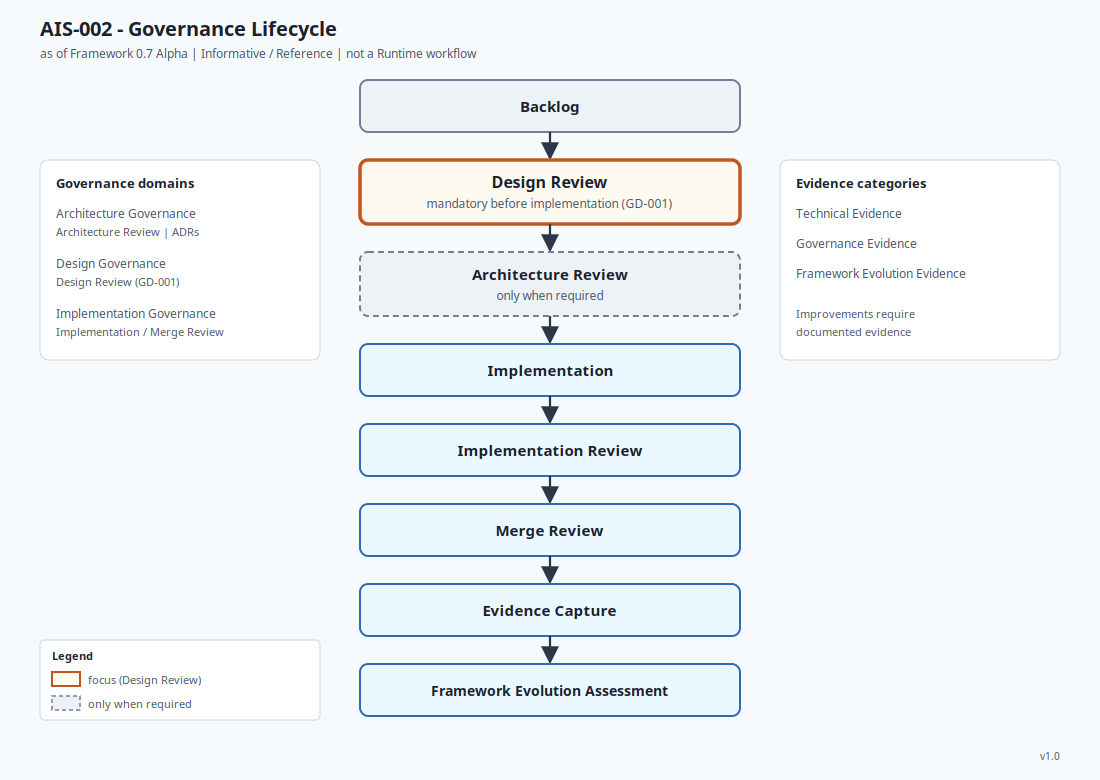
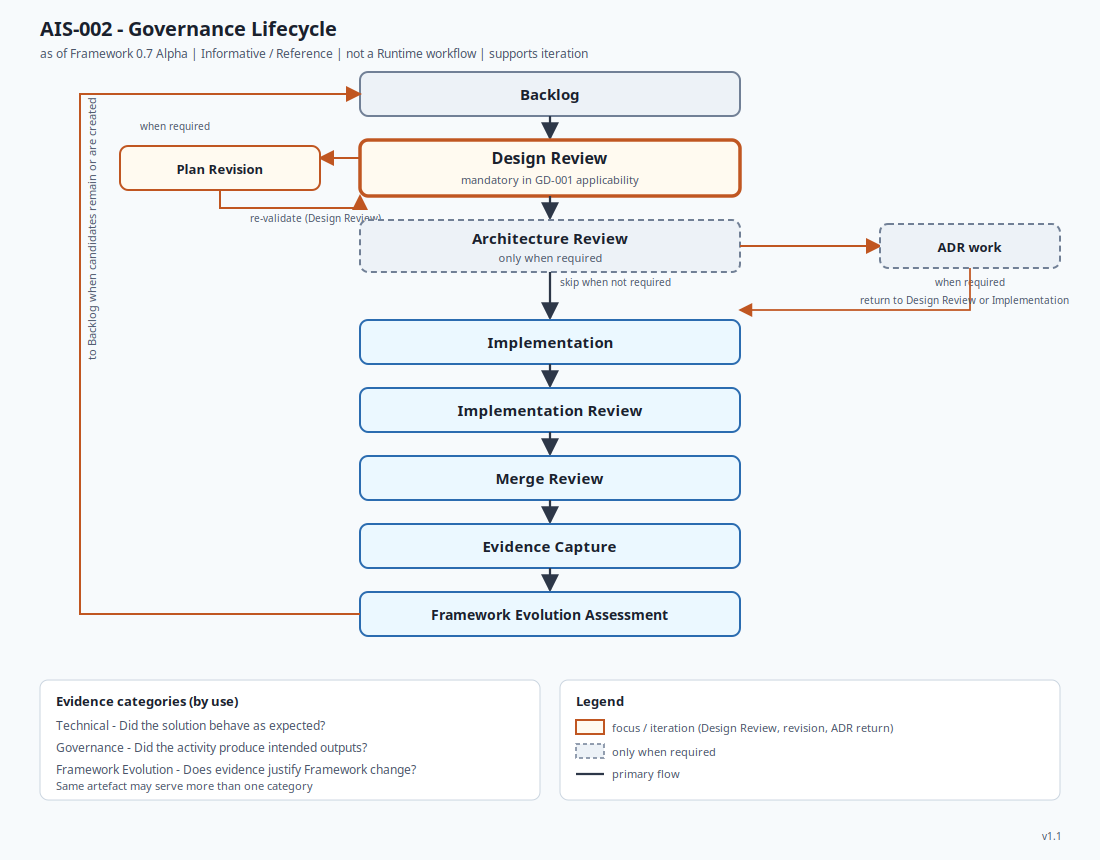
docs(governance): address PR #6 governance review findings
Complete lifecycle purpose/owner/outputs and iteration transitions,
clarify use-based evidence categories, add lightweight GD status model,
and limit GD-001 applicability to Framework evolution and official RIs.

diff --git a/docs/governance/GOVERNANCE.md b/docs/governance/GOVERNANCE.md
@@ -53,14 +53,20 @@ Accepted ADR authority.
 ## Governance lifecycle
 
 *Informative teaching view of Framework stewardship stages — not a Runtime
-workflow and not a mandatory waterfall for consuming-project changes.*
+workflow and not a mandatory waterfall for ordinary consuming-project changes.
+GD-001 applicability is stated in
+[GD-001](./GOVERNANCE_DECISIONS/GD-001-Design-Review.md).*
 
 ```text
 Backlog
   ↓
-Design Review
+Design Review ──→ Plan Revision (when required) ──→ Design Review
   ↓
-Architecture Review (only when required)
+  ├──→ Architecture Review (when required)
+  │         ↓
+  │    ADR work (when required)
+  │         ↓
+  │    return to Design Review or Implementation
   ↓
 Implementation
   ↓
@@ -71,65 +77,98 @@ Merge Review
 Evidence Capture
   ↓
 Framework Evolution Assessment
+  ↓
+Backlog (when evolution candidates remain or are created)
 ```
 
-![AIS-002 Governance Lifecycle: Backlog → Design Review → Architecture Review (only when required) → Implementation → Implementation Review → Merge Review → Evidence Capture → Framework Evolution Assessment. Informative governance view; not a Runtime workflow.](../illustrations/png/AIS-002-governance-lifecycle.png)
+![AIS-002 Governance Lifecycle: iterative stewardship flow including Design Review, plan revision, conditional Architecture Review and ADR work, Implementation through Evidence Capture, and Framework Evolution Assessment returning to Backlog. Informative governance view; not a Runtime workflow.](../illustrations/png/AIS-002-governance-lifecycle.png)
 
-*Governance Lifecycle — Design Review is a mandatory stage before
-implementation. Architecture Review occurs only when required.
+*Governance Lifecycle — Design Review is mandatory before implementation within
+GD-001 applicability. Architecture Review and ADR work occur only when
+required. The lifecycle supports iteration.
 (AIS-002 · Informative / Reference ·
 [SVG](../illustrations/svg/AIS-002-governance-lifecycle.svg))*
 
-### Stage purposes
+### Stages — purpose, owner, expected outputs
 
-| Stage | Purpose |
-| ----- | ------- |
-| **Backlog** | Hold evidence-backed candidates and planned work items without treating the list as a roadmap or approval. See the [Evolution Backlog](../FRAMEWORK-EVOLUTION-BACKLOG.md) for Framework evolution candidates. |
-| **Design Review** | Validate planned implementation **before code is written**: scope, acceptance criteria, dependencies, design quality, and documentation completeness; decide whether implementation may begin or an Architecture Review is required ([GD-001](./GOVERNANCE_DECISIONS/GD-001-Design-Review.md)). |
-| **Architecture Review** | Challenge and decide architectural impact **only when Design Review (or equivalent authority) requires it**. May lead to ADR work. Does not routinely precede every implementation phase. |
-| **Implementation** | Produce the change under the confirmed scope and acceptance criteria, within Human Authority and Project Policy (or Framework stewardship rules for Framework-repo work). |
-| **Implementation Review** | Independently challenge the delivered change at proportionate depth (aligned with the Runtime **Review** capability for Framework-governed project changes — see [FA-011](../FA-011-REVIEW-GUIDE.md)). |
-| **Merge Review** | Confirm merge readiness: required outcomes present, residual risks explicit, and Human Authority satisfied for integration. |
-| **Evidence Capture** | Record Technical, Governance, and/or Framework Evolution Evidence produced by the work so learning is durable and citable. |
-| **Framework Evolution Assessment** | Decide whether captured evidence justifies a Framework improvement (Governance Decision, ADR, Asset change, or Evolution Backlog candidate). Improvements require documented evidence. |
+| Stage | Purpose | Owner | Expected outputs |
+| ----- | ------- | ----- | ---------------- |
+| **Backlog** | Hold evidence-backed candidates and planned work items without treating the list as a roadmap or approval. See the [Evolution Backlog](../FRAMEWORK-EVOLUTION-BACKLOG.md) for Framework evolution candidates. | Framework stewards (repository maintainers for Framework-repo work) | Prioritised or deferred candidates with origin evidence links; no implied approval |
+| **Design Review** | Validate planned implementation **before code is written**: scope, acceptance criteria, dependencies, design quality, and documentation completeness; decide whether implementation may begin, the plan must be revised, or an Architecture Review is required ([GD-001](./GOVERNANCE_DECISIONS/GD-001-Design-Review.md)). | Human Decision Owner for the phase (may be assisted; not agent-finalised for material work) | Confirmed scope; confirmed acceptance criteria; implementation recommendation (proceed / revise plan / stop/escalate); Architecture Review decision; documented rationale |
+| **Architecture Review** | Challenge and decide architectural impact **only when Design Review (or equivalent authority) requires it**. May lead to ADR work. Does not routinely precede every implementation phase. | Human accountable for architectural acceptance (Decision Owner for architecture on that change) | Architecture Review outcome (proceed under current architecture / ADR work required / stop/escalate); documented rationale |
+| **Implementation** | Produce the change under the confirmed scope and acceptance criteria, within Human Authority and Project Policy (or Framework stewardship rules for Framework-repo work). | Implementers under the Decision Owner’s authority | Delivered change artefacts within confirmed scope |
+| **Implementation Review** | Independently challenge the delivered change at proportionate depth (aligned with the Runtime **Review** capability for Framework-governed project changes — see [FA-011](../FA-011-REVIEW-GUIDE.md)). | Review authority under Project Policy / Human Authority (FA-011 for Runtime-bound work) | Review Outcome (`pass` / `fail` / `conditional`) or equivalent recorded challenge result |
+| **Merge Review** | Confirm merge readiness: required outcomes present, residual risks explicit, and Human Authority satisfied for integration. | Merge authority (Decision Owner or Policy-designated merge approver) | Merge readiness decision (merge / withhold); residual-risk record if material |
+| **Evidence Capture** | Record Technical, Governance, and/or Framework Evolution Evidence produced by the work so learning is durable and citable. | Change participants with steward oversight | Citable evidence records classified by **use** (see Evidence categories) |
+| **Framework Evolution Assessment** | Decide whether captured evidence justifies a Framework improvement (Governance Decision, ADR, Asset change, or Evolution Backlog candidate). Improvements require documented evidence. | Framework stewards | Evolution disposition (no Framework change / backlog candidate / GD or ADR/Asset change path); linked evidence |
+
+### Lifecycle transitions
+
+The lifecycle supports iteration. Material transitions:
+
+| From | To | When |
+| ---- | -- | ---- |
+| Backlog | Design Review | A bounded implementation phase is ready to plan/validate |
+| Design Review | **Plan Revision** | Implementation recommendation is revise plan |
+| Plan Revision | Design Review | Revised plan is ready for re-validation |
+| Design Review | **Architecture Review** | Architecture Review decision is required |
+| Design Review | Implementation | Proceed; Architecture Review not required |
+| Architecture Review | **ADR work** | Architectural decision/change is required |
+| Architecture Review | Implementation | Proceed under current architecture; no ADR work required |
+| Architecture Review | Design Review | Plan must be re-validated after architectural challenge |
+| ADR work (completion) | **Design Review** or **Implementation** | Return path chosen by the Decision Owner: re-validate design when scope/criteria changed; otherwise proceed to implementation under resolved architecture |
+| Implementation | Implementation Review | Delivery artefacts exist for challenge |
+| Implementation Review | Merge Review | Review Outcome allows merge consideration |
+| Merge Review | Evidence Capture | Merge decision recorded (merge or withhold still captures evidence) |
+| Evidence Capture | Framework Evolution Assessment | Evidence is durable enough to assess |
+| Framework Evolution Assessment | **Backlog** | Candidates remain, are created, or deferred for later evidence |
+
+Stop/Escalate may exit any stage when mandatory inputs conflict or material
+factors are unknown without valid deferral.
 
 ---
 
 ## Evidence categories
 
-Framework stewardship recognises three evidence categories.
+Framework stewardship recognises three evidence categories. Categories classify
+**how evidence is used**, not which document or file contains it.
+
+The **same artefact may contribute to more than one category** depending on the
+question being asked.
 
 ### Technical Evidence
 
-Evidence validating technical architecture and behaviour.
+Evidence answering:
 
-Examples:
+> Did the technical solution behave as expected?
 
-- automated tests
-- architecture validation
-- runtime behaviour observations
+Examples include runtime validation, architecture validation, and testing.
 
 ### Governance Evidence
 
-Evidence validating governance effectiveness.
+Evidence answering:
 
-Examples:
+> Did the governance activity produce the intended outputs?
+
+Examples include:
 
 - Design Reviews
 - Architecture Reviews
-- Implementation Reviews
 - Merge Reviews
-- Architecture Assessments
+
+(Implementation Reviews likewise count when used to show that the governance
+activity produced its intended Review Outcome.)
 
 ### Framework Evolution Evidence
 
-Evidence justifying improvements to the Framework itself.
+Evidence answering:
 
-Examples:
+> Does the collected evidence justify changing the Framework?
 
-- documented Reference Implementation lessons that expose a Framework gap
-- Design Review outcomes that identify governance improvements
-- Evolution Backlog candidates with linked origin evidence
+Examples include RI lessons used to justify a Framework gap, Design Review
+outputs used to justify a Governance Decision, and Evolution Backlog candidates
+with linked origin evidence — **when those artefacts are used for evolution
+justification**, not merely because a review occurred.
 
 **Framework improvements shall only be introduced when supported by documented
 evidence.** Preference and anecdote alone are insufficient.
@@ -164,12 +203,28 @@ here (or in ADRs / Assets as appropriate).
 
 Governance Decisions use the `GD-###` identity namespace.
 
-| ID | Title | Status |
-| -- | ----- | ------ |
-| [GD-001](./GOVERNANCE_DECISIONS/GD-001-Design-Review.md) | Mandatory Design Review Before Implementation | Accepted |
-
 See [FAIS](./FRAMEWORK-ASSET-IDENTIFICATION-STANDARD.md) for namespace
 boundaries among `ADR-###`, `FA-###`, and `GD-###`.
+
+### Status model
+
+*Lightweight lifecycle for Governance Decisions — intentionally minimal.*
+
+| Status | Meaning |
+| ------ | ------- |
+| **Draft** | Proposed; not ready for stewardship adoption |
+| **Under Review** | Submitted for governance review; not yet binding |
+| **Accepted** | Binding Governance Decision for its stated applicability |
+| **Superseded** | Replaced by a later Governance Decision; retained for history |
+| **Deprecated** | No longer to be applied for new work; retained for history |
+
+Do not invent additional GD workflow stages beyond this status model.
+
+### Decision index
+
+| ID | Title | Status |
+| -- | ----- | ------ |
+| [GD-001](./GOVERNANCE_DECISIONS/GD-001-Design-Review.md) | Mandatory Design Review Before Implementation | Under Review |
 
 ---
 

diff --git a/docs/governance/GOVERNANCE_DECISIONS/GD-001-Design-Review.md b/docs/governance/GOVERNANCE_DECISIONS/GD-001-Design-Review.md
@@ -4,7 +4,7 @@
 | --------- | ----- |
 | Governance Decision | GD-001 |
 | Title | Mandatory Design Review Before Implementation |
-| Status | Accepted |
+| Status | Under Review |
 | Classification | Governance Decision |
 | Product | AI Software Development Framework |
 | Related | [GOVERNANCE.md](../GOVERNANCE.md); [FA-002 (Method Spine)](../../FA-002-METHOD-SPINE.md); [FA-011 (Review Guide)](../../FA-011-REVIEW-GUIDE.md); [ADR-001](../../adr/ADR-001-FRAMEWORK-CORE-SEMANTICS.md)–[ADR-004](../../adr/ADR-004-AGENT-INTERACTION-MODEL.md); Whitepaper Ch. 10; Reference Implementation RI-001 (Fitness Challenge Platform) |
@@ -13,7 +13,29 @@
 
 ## Status
 
-Accepted
+Under Review
+
+Statuses follow the lightweight Governance Decision status model in
+[GOVERNANCE.md](../GOVERNANCE.md#status-model): Draft · Under Review ·
+Accepted · Superseded · Deprecated.
+
+---
+
+## Applicability
+
+GD-001 applies to:
+
+1. **AI Software Development Framework evolution** — implementation phases that
+   change Framework governance, Method, Assets, ADRs, or other Framework-repo
+   product content under stewardship.
+2. **Official Reference Implementations** — implementation phases in an
+   official RI (for example RI-001 Fitness Challenge Platform) conducted under
+   Framework governance for validation and evidence production.
+
+GD-001 does **not** make Design Review mandatory for all Framework consumers
+or for all software development. Ordinary consuming projects MAY adopt Design
+Review voluntarily under Project Policy; this Decision does not impose it on
+them.
 
 ---
 
@@ -60,13 +82,14 @@ Framework governance directly.
 
 ## When
 
-A Design Review **shall** be performed **before every implementation phase**.
+Within the [Applicability](#applicability) stated above, a Design Review
+**shall** be performed **before every implementation phase**.
 
 “Implementation phase” means a bounded unit of planned delivery work that is
-about to produce product or Framework changes (for example a named phase,
-increment, or material change package). Design Review is not waived by the
-existence of prior Architecture Reviews, ADRs, or Runtime Review outcomes for
-earlier phases.
+about to produce in-scope Framework evolution changes or official Reference
+Implementation changes (for example a named phase, increment, or material
+change package). Design Review is not waived by the existence of prior
+Architecture Reviews, ADRs, or Runtime Review outcomes for earlier phases.
 
 ---
 
@@ -84,7 +107,8 @@ Design Review shall validate:
 
 Design Review shall determine whether:
 
-- **implementation may begin**, or
+- **implementation may begin**,
+- **the plan must be revised** (then return to Design Review), or
 - **an Architecture Review is required**
 
 before implementation proceeds.
@@ -103,8 +127,11 @@ Each Design Review shall produce:
 | **Architecture Review decision** | Required or not required, with enough specificity to act |
 | **Documented rationale** | Why the recommendation and Architecture Review decision follow from the review |
 
-These outputs are **Governance Evidence**. They do not by themselves amend
-Accepted ADRs or Normative Framework Assets.
+These outputs are **Governance Evidence** when used to show that Design Review
+produced its intended outputs. The same records may also be **Framework
+Evolution Evidence** when used to justify a Framework change. Categories
+classify use, not file location ([GOVERNANCE.md](../GOVERNANCE.md#evidence-categories)).
+They do not by themselves amend Accepted ADRs or Normative Framework Assets.
 
 ---
 
@@ -124,7 +151,9 @@ Review finds that the planned work:
 
 When Architecture Review is required, implementation of the affected scope
 shall not begin until that review (and any resulting ADR work it mandates) has
-resolved the blocking architectural questions.
+resolved the blocking architectural questions. After ADR completion, work
+returns to **Design Review** or **Implementation** per the
+[lifecycle transitions](../GOVERNANCE.md#lifecycle-transitions).
 
 ---
 
@@ -164,6 +193,7 @@ This Governance Decision does **not**:
 - introduce new coding patterns or prompts
 - change any Reference Implementation repository
 - require Architecture Review before every phase
+- mandate Design Review for all Framework consumers or all software development
 
 ---
 

diff --git a/docs/illustrations/svg/AIS-002-governance-lifecycle.metadata.md b/docs/illustrations/svg/AIS-002-governance-lifecycle.metadata.md
@@ -5,7 +5,7 @@
 | AIS ID | AIS-002 |
 | Title | Governance Lifecycle |
 | Framework version | Framework 0.7 Alpha |
-| Illustration version | 1.0 |
+| Illustration version | 1.1 |
 | Publication date | 2026-07-31 |
 | Status | Published |
 | Force | Informative / Reference |
@@ -16,27 +16,31 @@
 
 ## Caption
 
-Governance Lifecycle — Design Review is a mandatory stage before
-implementation. Architecture Review occurs only when required.
+Governance Lifecycle — Design Review is mandatory within GD-001 applicability.
+Architecture Review and ADR work occur only when required. The lifecycle
+supports iteration (plan revision, ADR return, evolution back to Backlog).
 
 *Informative / Reference. Governance lifecycle teaching view — not a Runtime
 workflow.*
 
 ## Alt text
 
-Framework governance lifecycle diagram. Stages flow top to bottom: Backlog,
-Design Review (mandatory before implementation; GD-001), Architecture Review
-(only when required), Implementation, Implementation Review, Merge Review,
-Evidence Capture, and Framework Evolution Assessment. Side panels summarise
-Architecture, Design, and Implementation Governance domains, and the three
-evidence categories (Technical, Governance, Framework Evolution). Informative
-only; not a Runtime workflow.
+Iterative Framework governance lifecycle. Stages: Backlog; Design Review with
+plan-revision loop; Architecture Review only when required, with optional ADR
+work returning to Design Review or Implementation; Implementation;
+Implementation Review; Merge Review; Evidence Capture; Framework Evolution
+Assessment returning to Backlog. Evidence categories classify use: Technical,
+Governance, Framework Evolution. Informative only; not a Runtime workflow.
 
 ## Changes
 
 ```text
 v1.0
-Initial publication — includes Design Review (GD-001)
+Initial publication - includes Design Review (GD-001)
+
+v1.1
+Iteration transitions: plan revision, ADR return, evolution to Backlog;
+evidence categories by use
 ```
 
 ## End of AIS-002 metadata

diff --git a/docs/illustrations/allocation-log.md b/docs/illustrations/allocation-log.md
@@ -25,7 +25,7 @@ figure (for example README); otherwise leave blank or `No`.
 | ------ | ----- | ------ | ---------- | ------------- | ---- | ----- |
 | AIS-000 | Architecture Illustration System | Published (standard) | — | — | — | Illustration system standard; not a figure |
 | AIS-001 | Framework Documentation Map | Published | [svg/AIS-001-framework-documentation-map.svg](./svg/AIS-001-framework-documentation-map.svg) | README | Yes | v1.0; [metadata](./svg/AIS-001-framework-documentation-map.metadata.md) |
-| AIS-002 | Governance Lifecycle | Published | [svg/AIS-002-governance-lifecycle.svg](./svg/AIS-002-governance-lifecycle.svg) | GOVERNANCE.md | No | v1.0; includes Design Review (GD-001); [metadata](./svg/AIS-002-governance-lifecycle.metadata.md) |
+| AIS-002 | Governance Lifecycle | Published | [svg/AIS-002-governance-lifecycle.svg](./svg/AIS-002-governance-lifecycle.svg) | GOVERNANCE.md | No | v1.1; iteration transitions + evidence-by-use; [metadata](./svg/AIS-002-governance-lifecycle.metadata.md) |
 | AIS-003+ | — | Unallocated | — | — | — | Next free illustration ID |
 
 **Referenced by** lists primary documentation citations for maintainers (for

diff --git a/docs/governance/FRAMEWORK-ASSET-IDENTIFICATION-STANDARD.md b/docs/governance/FRAMEWORK-ASSET-IDENTIFICATION-STANDARD.md
@@ -133,6 +133,10 @@ Filename changes do not change Asset ID.
 | Governance Decisions | `GD-###` | Framework stewardship / governance rules (see [GOVERNANCE.md](./GOVERNANCE.md)) |
 | Repository / construction governance | No `FA-###` / not an ADR by default | How this repository identifies and maintains assets |
 
+Governance Decision status values (Draft, Under Review, Accepted, Superseded,
+Deprecated) are defined in [GOVERNANCE.md](./GOVERNANCE.md#status-model). FAIS
+does not invent a separate GD workflow.
+
 FAIS does not amend Method Spine principles, ADR decisions, or Framework
 capability semantics. Governance Decisions must not silently redefine
 architecture or Runtime; architectural change remains ADR-owned.
